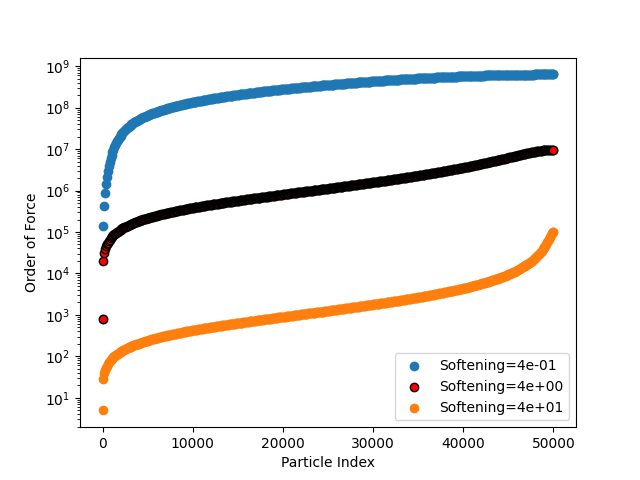
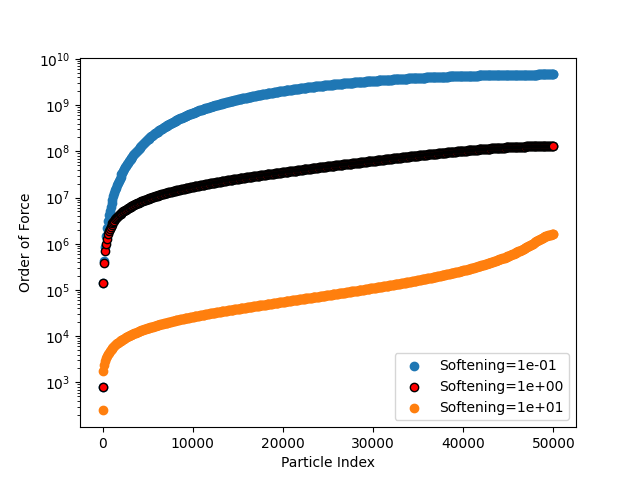
Changing nbody direct to work with int, making sure tree divides to the lowest level

diff --git a/n_body_project/exp_tree_code.py b/n_body_project/exp_tree_code.py
@@ -71,11 +71,18 @@ class QuadTreeNode:
 		self.children.append(QuadTreeNode(child_xmid, child_ymid, self.xmax, self.ymax))
 		self.children.append(QuadTreeNode(child_xmid, self.ymin, self.xmax, child_ymid))
 
+		# divide points onto the nodes
+		for current_points in self.points:
+			self.add_point_to_child(current_points)
+
+		# reset the point list to 0
+		self.points = []
+
 		# after splitting the node, each child needs the center of total_mass coordinates
 		# and the total total_mass calculated
 		for child in self.children:
-			child.calculate_center_of_mass()
 
+			pass
 
 	def calculate_center_of_mass(self, point):
 		# check if the node has children
@@ -151,31 +158,33 @@ class QuadTreeNode:
 
 # Implementation
 # def plot_quadtree(node, ax=None):
-#     if ax is None:
-#         _, ax = plt.subplots()
-#
-#     ax.plot([node.xmin, node.xmin, node.xmax, node.xmax, node.xmin],
-#             [node.ymin, node.ymax, node.ymax, node.ymin, node.ymin], color='black')
-#
-#     for child in node.children:
-#         plot_quadtree(child, ax)
-#
-#     for point in node.points:
-#         ax.plot(point.x, point.y, 'ro')
-#
-#     ax.set_xlim(0, 100)
-#     ax.set_ylim(0, 100)
-#     ax.set_aspect('equal', adjustable='box')
-#
-#
+# 	if ax is None:
+# 		_, ax = plt.subplots()
+# #
+# 	ax.plot([node.xmin, node.xmin, node.xmax, node.xmax, node.xmin],
+# 			[node.ymin, node.ymax, node.ymax, node.ymin, node.ymin], color='black')
+# #
+# 	for child in node.children:
+# 		plot_quadtree(child, ax)
+# #
+# 	for point in node.points:
+# 		ax.plot(point.x, point.y, 'ro')
+# #
+# 	ax.set_xlim(0, 100)
+# 	ax.set_ylim(0, 100)
+# 	ax.set_aspect('equal', adjustable='box')
+# #
+# #
 # quadtree = QuadTreeNode(xmin=0, ymin=0, xmax=100, ymax=100)
-# points_list = [(10, 10, 3), (20, 20, 4), (5, 5, 5), (90, 90, 6), (15, 15, 7), (30, 30, 8)]
-#
+# points_list = [(10, 10, 3), (20, 20, 4), (5, 5, 5), (90, 90, 6), (15, 15, 7), (30, 30, 8), (1, 1, 1), (1, 40, 1), (20, 40, 1), (1, 49, 1)]
+# #
 # for point_coords in points_list:
 # 	point = Point(*point_coords)
 # 	quadtree.add_point(point)
-#
+# #
 # plot_quadtree(quadtree)
 # plt.show()
+#
+
 
 

diff --git a/n_body_project/main.py b/n_body_project/main.py
@@ -20,7 +20,7 @@ particle_number, mass, x_cord, y_cord, z_cord, vx_vel, vy_vel, vz_vel, softening
 
 # all data in Planck units
 # ------------------------------------------------------------------------------
-
+"""
 # Task 1: Step 1
 
 # get the density plot
@@ -30,7 +30,7 @@ particle_density_plot.savefig("n_body_project/plots/density_profile.png")
 plt.close(particle_density_plot)
 
 # test time integration
-leap_frog(x_cord, y_cord, z_cord, vx_vel, vy_vel, vz_vel, mass, 1, 1)
+#leap_frog(x_cord, y_cord, z_cord, vx_vel, vy_vel, vz_vel, mass, 1, 1)
 
 # ------------------------------------------------------------------------------
 # Task 1: Step 2
@@ -101,20 +101,22 @@ def plot_quadtree(node, ax=None):
 
 quadtree = QuadTreeNode(xmin=0, ymin=0, xmax=np.max(x_cord), ymax=np.max(y_cord))
 point_coordinates = [(x_cord[i], y_cord[i], mass[i]) for i in range(len(x_cord))]
-point_coordinates = point_coordinates[::100]
+#point_coordinates = point_coordinates[::10]
+print(len(point_coordinates))
 print(point_coordinates)
 
+count = 0
 for point in range(len(point_coordinates)):
+	count += 1
 	print(f"Calculating particle {point}")
 	point = Point(*point_coordinates[point])
 	quadtree.add_point(point)
-for point in range(len(point_coordinates)):
-	point = Point(*point_coordinates[point])
-	accel = quadtree.force_calculation(point)
+
+print(count)
 
 plot_quadtree(quadtree)
 plt.show()
-"""
+
 
 
 

diff --git a/n_body_project/n_body_forces.py b/n_body_project/n_body_forces.py
@@ -1,3 +1,5 @@
+import math
+
 from numba import jit, prange
 import numpy as np
 import matplotlib.pyplot as plt
@@ -196,7 +198,8 @@ def softening_values(mean_dist, exp, step_size):
 	@rtype: list
 	"""
 
-	n = round(mean_dist)
+	exp_of_mean_dist = math.floor(math.log10(mean_dist))
+	n = 10 ** exp_of_mean_dist
 	exp = list(range(-exp, exp + 1, step_size))
 	softs = []
 	for i in exp:
@@ -245,7 +248,7 @@ def softening_plot(soft_values, particle_number, mean_int, mass, x_cord, y_cord,
 		r_abs_sort = F_abs_sort.r_abs
 		F_abs_sort = F_abs_sort.F_abs
 
-		if i / round(mean_int) == 1:
+		if i / (10 ** math.floor(math.log10(mean_int))) == 1:
 			ax_soft.scatter(par[::100], F_abs_sort[::100], color="red", edgecolors='black', label=f'Softening={i:.0e}')
 			ax_rad.scatter(r_abs_sort[::100], F_abs_sort[::100], color="red", edgecolors='black', label=f'Softening={i:.0e}')
 		else:

diff --git a/n_body_project/Readme.md b/n_body_project/Readme.md
@@ -3,8 +3,11 @@
 ### Libraries
 
 ```numba```: optimized running with decorater ```@jit(nopython=True)```, can also easily be parallelized with ```@jit(nopython=True, parallel=True)``` and using ```prange``` instead of ```range``` in the forloop -> careful: race condtion
+
 ```numpy```: allows vectorized calculations, improves performance as well
+
 ```matplotlib```: for plotting
+
 ```scipy.optimize```: from this library use the function ```curve_fit``` to fit a curve
 
 ### Data extraction
